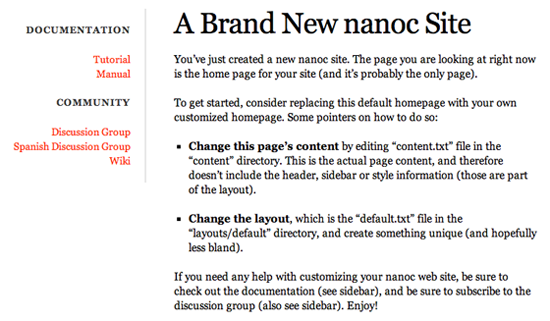
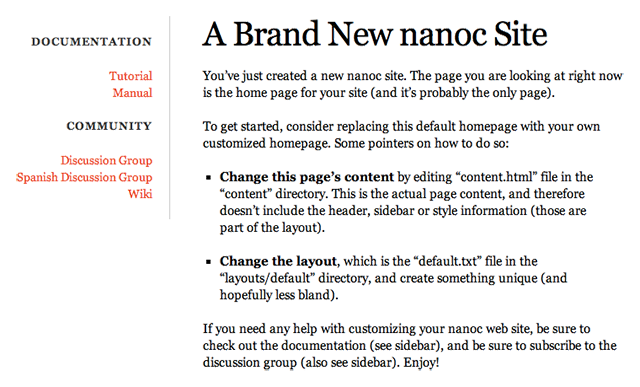
updated default screenshot
--HG--
branch : future-31

diff --git a/content/assets/style/main.sass b/content/assets/style/main.sass
@@ -332,7 +332,10 @@ body
         font-style: normal
 
   .figure
-    padding: 36px 0
+    margin:  20px 0
+    padding: 15px 0
+    border-top:    5px solid #ccc
+    border-bottom: 5px solid #ccc
     text-align: center
 
   q, .path

diff --git a/content/docs/3-getting-started.md b/content/docs/3-getting-started.md
@@ -83,11 +83,9 @@ A file named `index.html` has been created in the `output` directory. Start a we
 Now, open your web browser and navigate to [http://localhost:3000/](http://localhost:3000/). What you’ll see is something like this:
 
 <div class="figure">
-	<img style="border: 6px solid #ccc" src="/assets/images/tutorial/default-site.png"
+	<img src="/assets/images/tutorial/default-site.png"
 	     alt="Screenshot of what a brand new nanoc site looks like">
 </div>
-
-FIXME add a bigger screenshot
 
 (If you open the `index.html` directly in your web browser, the stylesheet will most likely not be loaded. This is because the page has an _absolute_ link to the `style.css` file, not a relative one. See the [Watch out for Paths](#watch-out-for-paths) section for details.)
 
